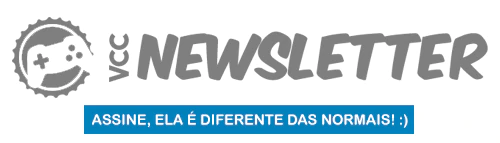
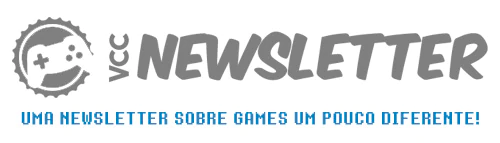
chore: update newsletter page

Changed region(s): [[0.03, 0.7273, 0.96, 0.951]]

diff --git a/newsletter.html b/newsletter.html
@@ -11,36 +11,42 @@ sitemap:
   <img src="/imgs/tags/vcc-newsletter.png">
 
   <div class="newsletter-page-msg">
-    <p style="text-align:center">
-      Considere assinar nossa newsletter, ela é um pouco <b>diferente</b>!
-    </p>
-      
-    <p>
-      Inspirada em newsletters famosas do mundo da tecnologia e desenvolvimento de software, tais como 
+    <p style="text-align:center; font-size:1.5em">Uma newsletter sobre games um pouco diferente!</p>
+
+    <p style="margin-top:40px">
+      Inspirada em newsletters famosas do mundo da tecnologia da informação e desenvolvimento de software, como a 
       <a href="https://hackernewsletter.com/" target="_blank"><b>hackernewsletter</b></a>, 
-      <a href="https://braziljs.org/newsletter/"><b>BrazilJS Newsletter</b></a> etc, a 
-      nossa newsletter tenta trazer para você os melhores conteúdos relacionados ao nosso hobby: os videogames!
+      <a href="https://braziljs.org/newsletter/"><b>BrazilJS Newsletter</b></a> e
+      <a href="https://www.interfaces.news/"><b>Interfaces</b></a>, a 
+      nossa newsletter tenta trazer para você os melhores conteúdos relacionados ao nosso hobby!
     </p>
 
-    <p>
-      Sendo assim, além de compartilhar as novidades do site, você também receberá diversos links e informações relacionados aos games 
-      (e as vezes de cerveja)!
+    <p style="text-align:center; margin:30px -180px; padding: 20px 70px; background-color: #2288bb; color: white; font-size:1.2em">
+      Além de compartilhar as novidades do site, 
+      você também receberá semanalmente um resumo comentado do que melhor aconteceu no mundo dos games direto no seu e-mail! :)
     </p>
 
-    <p style="text-align:center">
-      <b>Sinta-se a vontade em assinar! É grátis. Sem propagandas. Sem SPAM!</b>
+    <img src="/imgs/newsletter-iphone.jpg">
+
+    <p style="text-align:center; font-weight:bold">
+      Sinta-se a vontade em assinar! É grátis. Sem propagandas. Sem SPAM!
     </p>
   </div>
 
 <!-- Begin Mailchimp Signup Form -->
   
   <div id="mc_embed_signup">
-    <form action="https://vgscomcerveja.us18.list-manage.com/subscribe/post?u=b4405d761d41bd43429e5f961&amp;id=b0dc8fb784" method="post" id="mc-embedded-subscribe-form" name="mc-embedded-subscribe-form" class="validate" target="_blank" novalidate>
+    <form action="https://vgscomcerveja.us18.list-manage.com/subscribe/post?u=b4405d761d41bd43429e5f961&amp;id=b0dc8fb784" 
+        method="post" id="mc-embedded-subscribe-form" name="mc-embedded-subscribe-form" class="validate" target="_blank" novalidate>
       <div id="mc_embed_signup_scroll">
         <input type="email" value="" name="EMAIL" class="email" id="mce-EMAIL" placeholder="seu endereço de e-mail" required>
         <!-- real people should not fill this in and expect good things - do not remove this or risk form bot signups-->
-        <div style="position: absolute; left: -5000px;" aria-hidden="true"><input type="text" name="b_b4405d761d41bd43429e5f961_b0dc8fb784" tabindex="-1" value=""></div>
-        <div class="clear"><input type="submit" value="Assine" name="subscribe" id="mc-embedded-subscribe" class="button"></div>
+        <div style="position: absolute; left: -5000px;" aria-hidden="true">
+          <input type="text" name="b_b4405d761d41bd43429e5f961_b0dc8fb784" tabindex="-1" value="">
+        </div>
+        <br>
+        <input type="submit" value="Assine!" name="subscribe" 
+          id="mc-embedded-subscribe" class="button" style="background-color: #2288bb">
       </div>
     </form>
   </div>
@@ -72,6 +78,14 @@ sitemap:
 
   <br>
 
-  <a class="read-more" href="https://us18.campaign-archive.com/home/?u=b4405d761d41bd43429e5f961&id=b0dc8fb784">Confira as últimas edições</a>
+  <h3>Edições anteriores</h3>
+
+  <p>
+    Explore todo o conteúdo que já publicamos <a href="https://us18.campaign-archive.com/home/?u=b4405d761d41bd43429e5f961&id=b0dc8fb784">aqui</a>.
+  </p>
+
+  <br><br>
+  <p><small>powered by</small></p>
+  <img src="/imgs/mailchimp.png" width="60px" title="mailchimp">
 
 </div>

diff --git a/_includes/head.html b/_includes/head.html
@@ -75,9 +75,6 @@
     <link rel="canonical" href="{{ page.url | replace:'index.html','' | prepend: site.baseurl | prepend: site.url }}">
 
     <link href="//cdn-images.mailchimp.com/embedcode/horizontal-slim-10_7.css" rel="stylesheet" type="text/css">
-    <style type="text/css">
-        #mc_embed_signup{background:#fff; clear:left; font:14px Helvetica,Arial,sans-serif; width:100%;}
-    </style>
 
     <script>
       if ('serviceWorker' in navigator) {

diff --git a/_sass/_layout.scss b/_sass/_layout.scss
@@ -1058,7 +1058,19 @@
 
 #mc_embed_signup {
   clear: left;
-  font: 14px Helvetica, Arial, sans-serif;
+
+  form input {
+    border-radius: 0 !important;
+    font-size: 1.2em !important;
+  }
+
+  .email {
+    width: 80% !important;
+    margin-bottom: 6px !important;
+    font-size: 1.6em !important;
+    text-align: center !important;
+    padding: 30px !important;
+  }
 }
 
 .newsletter-page-msg {
